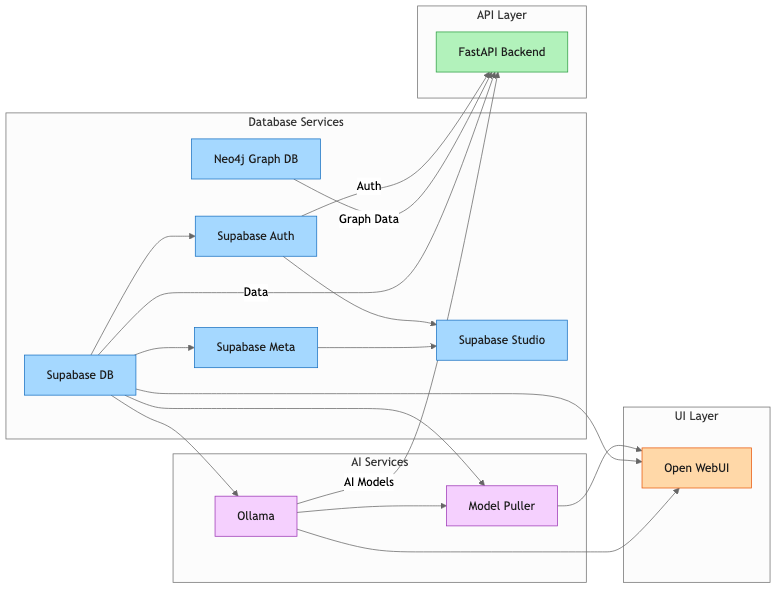
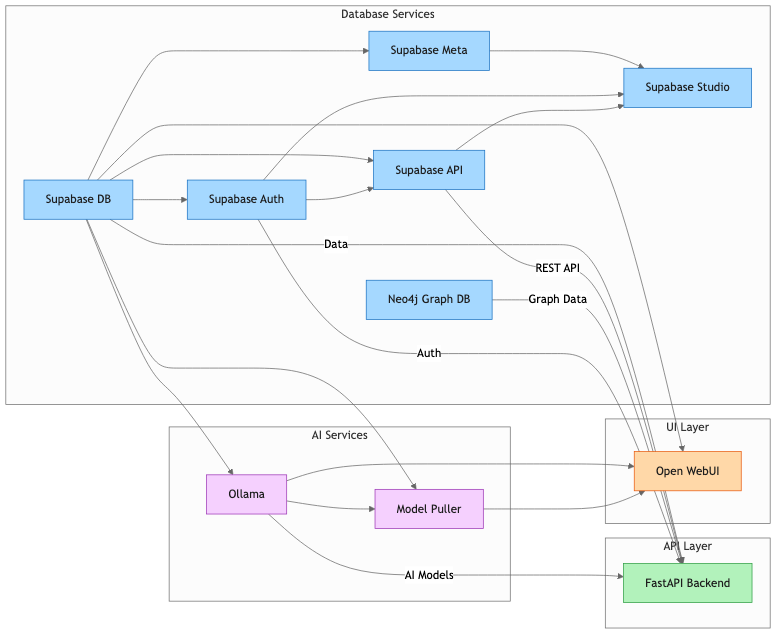
adds the supabase/api postgrest service

diff --git a/README.md b/README.md
@@ -33,6 +33,34 @@ GenAI Vanilla Stack is a customizable multi-service architecture for AI applicat
 
 ### 3.2. Running the Stack
 
+#### Using Convenience Scripts (Recommended)
+
+The project includes cross-platform scripts that simplify starting and stopping the stack:
+
+```bash
+# Start the stack with default settings
+./start.sh
+
+# Start with a custom base port (all service ports will be incremented from this base)
+./start.sh --base-port 64000
+
+# Start with a specific deployment profile
+./start.sh --profile dev-ollama-local
+
+# Combine options
+./start.sh --base-port 64000 --profile prod-gpu
+
+# Stop the stack and clean up resources
+./stop.sh
+
+# Stop a specific profile
+./stop.sh --profile prod-gpu
+```
+
+#### Manual Docker Compose Commands (Alternative)
+
+You can also use Docker Compose commands directly:
+
 ```bash
 # First, make sure all previous services are stopped to avoid port conflicts
 docker compose down --remove-orphans
@@ -57,6 +85,92 @@ For a fresh/cold start with a specific flavor, use:
 ```bash
 docker compose -f docker-compose.<flavor_name>.yml down --volumes --remove-orphans && docker compose -f docker-compose.<flavor_name>.yml up --build
 ```
+
+### 3.3. Convenience Scripts
+
+The project includes two cross-platform scripts to simplify deployment and port management:
+
+#### start.sh
+
+This script provides a streamlined way to start the stack with configurable ports and deployment profiles:
+
+```bash
+Usage: ./start.sh [options]
+Options:
+  --base-port PORT   Set the base port number (default: 63000)
+  --profile PROFILE  Set the deployment profile (default: default)
+                     Supported profiles: default, dev-ollama-local, prod-gpu
+  --cold             Force creation of new .env file and generate new keys
+  --help             Show this help message
+```
+
+The script automatically:
+1. Checks if `.env` exists, and if not, creates one from `.env.example` and generates Supabase keys
+2. Generates a new `.env` file with incremented port numbers based on the specified base port
+3. Preserves all non-port-related environment variables
+4. Backs up your existing `.env` file to `.env.backup`
+5. Displays a detailed port assignment table for all services
+6. Starts the appropriate Docker Compose configuration
+
+**First-time Setup:**
+When running for the first time, the script will automatically:
+- Create the `.env` file from `.env.example`
+- Run `generate_supabase_keys.sh` to generate required JWT keys
+- Set all port numbers based on the specified base port
+
+**Cold Start Option:**
+Use the `--cold` option to force a complete reset of the environment:
+```bash
+./start.sh --cold
+```
+This will:
+- Back up your existing `.env` file with a timestamp
+- Create a fresh `.env` file from `.env.example`
+- Generate new Supabase keys
+- Set all port numbers based on the specified base port
+- Remove Docker volumes if specified
+
+**Port Assignment Logic:**
+- SUPABASE_DB_PORT = BASE_PORT
+- SUPABASE_META_PORT = BASE_PORT + 1
+- SUPABASE_AUTH_PORT = BASE_PORT + 2
+- SUPABASE_API_PORT = BASE_PORT + 3
+- SUPABASE_STUDIO_PORT = BASE_PORT + 4
+- GRAPH_DB_PORT = BASE_PORT + 5
+- GRAPH_DB_DASHBOARD_PORT = BASE_PORT + 6
+- OLLAMA_PORT = BASE_PORT + 7
+- OPEN_WEB_UI_PORT = BASE_PORT + 8
+- BACKEND_PORT = BASE_PORT + 9
+
+#### stop.sh
+
+This script stops the stack and cleans up resources:
+
+```bash
+Usage: ./stop.sh [options]
+Options:
+  --profile PROFILE  Set the deployment profile (default: default)
+                     Supported profiles: default, dev-ollama-local, prod-gpu
+  --cold             Remove volumes (data will be lost)
+  --help             Show this help message
+```
+
+The script:
+1. Stops all containers in the specified profile
+2. Removes orphaned containers
+3. Preserves data volumes by default
+
+**Cold Stop Option:**
+Use the `--cold` option to perform a complete cleanup including volumes:
+```bash
+./stop.sh --cold
+```
+This will:
+- Stop all containers in the specified profile
+- Remove all volumes (all data will be lost)
+- Remove orphaned containers
+
+This is useful when you want to start completely fresh, but be careful as all database data will be lost.
 
 ## 4. Service Configuration
 
@@ -90,6 +204,16 @@ The Supabase Auth service (GoTrue) provides user authentication and management:
 - **API Endpoint**: Available at http://localhost:${SUPABASE_AUTH_PORT} (configured via `SUPABASE_AUTH_PORT`)
 - **JWT Authentication**: Uses a secure JWT token system for authentication
 - **Features**: User registration, login, password recovery, email confirmation, and more
+
+#### 5.1.3. Supabase API Service
+
+The Supabase API service (PostgREST) provides a RESTful API interface to the PostgreSQL database:
+
+- **API Endpoint**: Available at http://localhost:${SUPABASE_API_PORT} (configured via `SUPABASE_API_PORT`)
+- **Auto-generated API**: Automatically generates RESTful endpoints for all tables and views
+- **JWT Authentication**: Uses the same JWT tokens as the Auth service for secure access
+- **Role-Based Access Control**: Enforces database-level permissions based on JWT claims
+- **Dependencies**: Requires both the Supabase DB and Auth services
 
 **IMPORTANT**: Before starting the stack for the first time, you must generate a secure JWT secret and auth tokens:
 
@@ -147,7 +271,7 @@ openssl rand -hex 32
    - In the "VERIFY SIGNATURE" section, enter your JWT secret
    - Copy the generated tokens to your .env file for SUPABASE_ANON_KEY and SUPABASE_SERVICE_KEY variables
 
-#### 5.1.3. Supabase Studio Dashboard
+#### 5.1.4. Supabase Studio Dashboard
 
 The Supabase Studio provides a modern web-based administration interface for PostgreSQL:
 
@@ -276,6 +400,7 @@ The backend service is configured via environment variables:
 The backend service depends on:
 - Supabase DB (for database operations)
 - Supabase Auth (for authentication)
+- Supabase API (for RESTful API access to the database)
 - Graph DB (for graph database operations)
 - Ollama (for AI model inference)
 
@@ -376,6 +501,8 @@ docker exec -it ${PROJECT_NAME}-graph-db /usr/local/bin/restore.sh
 ```
 genai-vanilla-stack/
 ├── .env                  # Environment configuration
+├── start.sh              # Script to start the stack with configurable ports
+├── stop.sh               # Script to stop the stack and clean up resources
 ├── docker-compose.yml    # Main compose file
 ├── docker-compose.dev-ollama-local.yml  # Local Ollama flavor
 ├── docker-compose.prod-gpu.yml          # GPU-optimized flavor
@@ -396,6 +523,7 @@ genai-vanilla-stack/
 │   │   ├── scripts/
 │   │   └── snapshot/
 │   ├── auth/             # Supabase Auth service (GoTrue)
+│   ├── api/              # Supabase API service (PostgREST)
 │   └── storage/
 └── docs/                 # Documentation and diagrams
     ├── diagrams/
@@ -418,6 +546,8 @@ This project is designed to work across different operating systems:
 
 The following scripts that run on the host machine (not in containers) have been made cross-platform compatible:
 
+- `start.sh` - For starting the stack with configurable ports and profiles
+- `stop.sh` - For stopping the stack and cleaning up resources
 - `generate_supabase_keys.sh` - For generating JWT keys
 - `docs/diagrams/generate_diagram.sh` - For generating architecture diagrams
 
